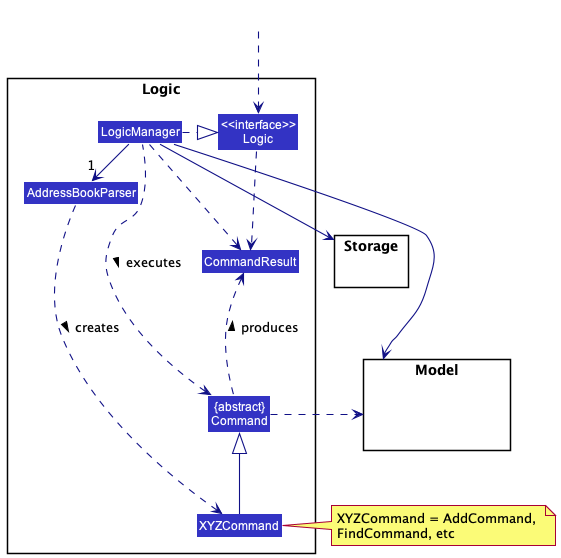
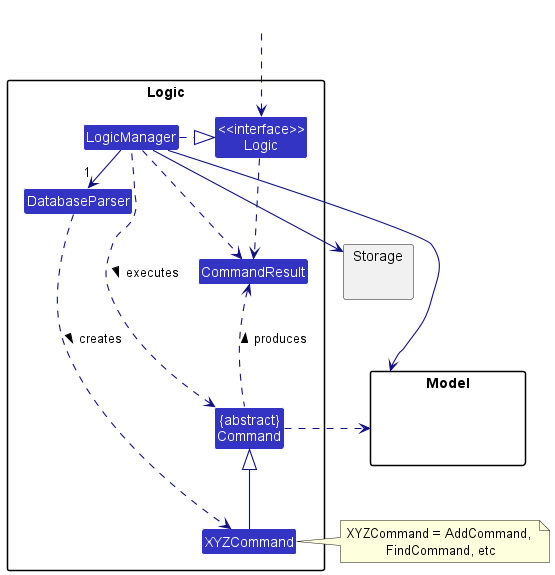
Update diagrams for developer guide

diff --git a/docs/DeveloperGuide.md b/docs/DeveloperGuide.md
@@ -121,31 +121,25 @@ How the parsing works:
 
 **API** : [`Model.java`](https://github.com/se-edu/addressbook-level3/tree/master/src/main/java/coydir/model/Model.java)
 
-<img src="images/diagrams/ModelClassDiagram.png" width="450" />
+<img src="images/diagrams/ModelClassDiagram.png" width="850" />
 
 The `Model` component,
 
-- stores the address book data i.e., all `Person` objects (which are contained in a `UniquePersonList` object).
+- stores the Coydir data i.e., all `Person` objects (which are contained in a `UniquePersonList` object).
 - stores the currently 'selected' `Person` objects (e.g., results of a search query) as a separate _filtered_ list which is exposed to outsiders as an unmodifiable `ObservableList<Person>` that can be 'observed' e.g. the UI can be bound to this list so that the UI automatically updates when the data in the list change.
 - stores a `UserPref` object that represents the user’s preferences. This is exposed to the outside as a `ReadOnlyUserPref` objects.
 - does not depend on any of the other three components (as the `Model` represents data entities of the domain, they should make sense on their own without depending on other components)
-
-<div markdown="span" class="alert alert-info">:information_source: **Note:** An alternative (arguably, a more OOP) model is given below. It has a `Tag` list in the `AddressBook`, which `Person` references. This allows `AddressBook` to only require one `Tag` object per unique tag, instead of each `Person` needing their own `Tag` objects.<br>
-
-<img src="images/diagrams/BetterModelClassDiagram.png" width="450" />
-
-</div>
 
 ### Storage component
 
 **API** : [`Storage.java`](https://github.com/se-edu/addressbook-level3/tree/master/src/main/java/coydir/storage/Storage.java)
 
-<img src="images/diagrams/StorageClassDiagram.png" width="550" />
+<img src="images/diagrams/StorageClassDiagram.png" width="450"/>
 
 The `Storage` component,
 
-- can save both address book data and user preference data in json format, and read them back into corresponding objects.
-- inherits from both `AddressBookStorage` and `UserPrefStorage`, which means it can be treated as either one (if only the functionality of only one is needed).
+- can save both Coydir data and user preference data in json format, and read them back into corresponding objects.
+- inherits from both `DatabaseStorage` and `UserPrefStorage`, which means it can be treated as either one (if only the functionality of only one is needed).
 - depends on some classes in the `Model` component (because the `Storage` component's job is to save/retrieve objects that belong to the `Model`)
 
 ### Common classes
@@ -200,8 +194,6 @@ than attempting to perform the undo.
 The following sequence diagram shows how the undo operation works:
 
 ![UndoSequenceDiagram](images/diagrams/UndoSequenceDiagram.png)
-
-<div markdown="span" class="alert alert-info">:information_source: **Note:** The lifeline for `UndoCommand` should end at the destroy marker (X) but due to a limitation of PlantUML, the lifeline reaches the end of diagram.
 
 </div>
 
